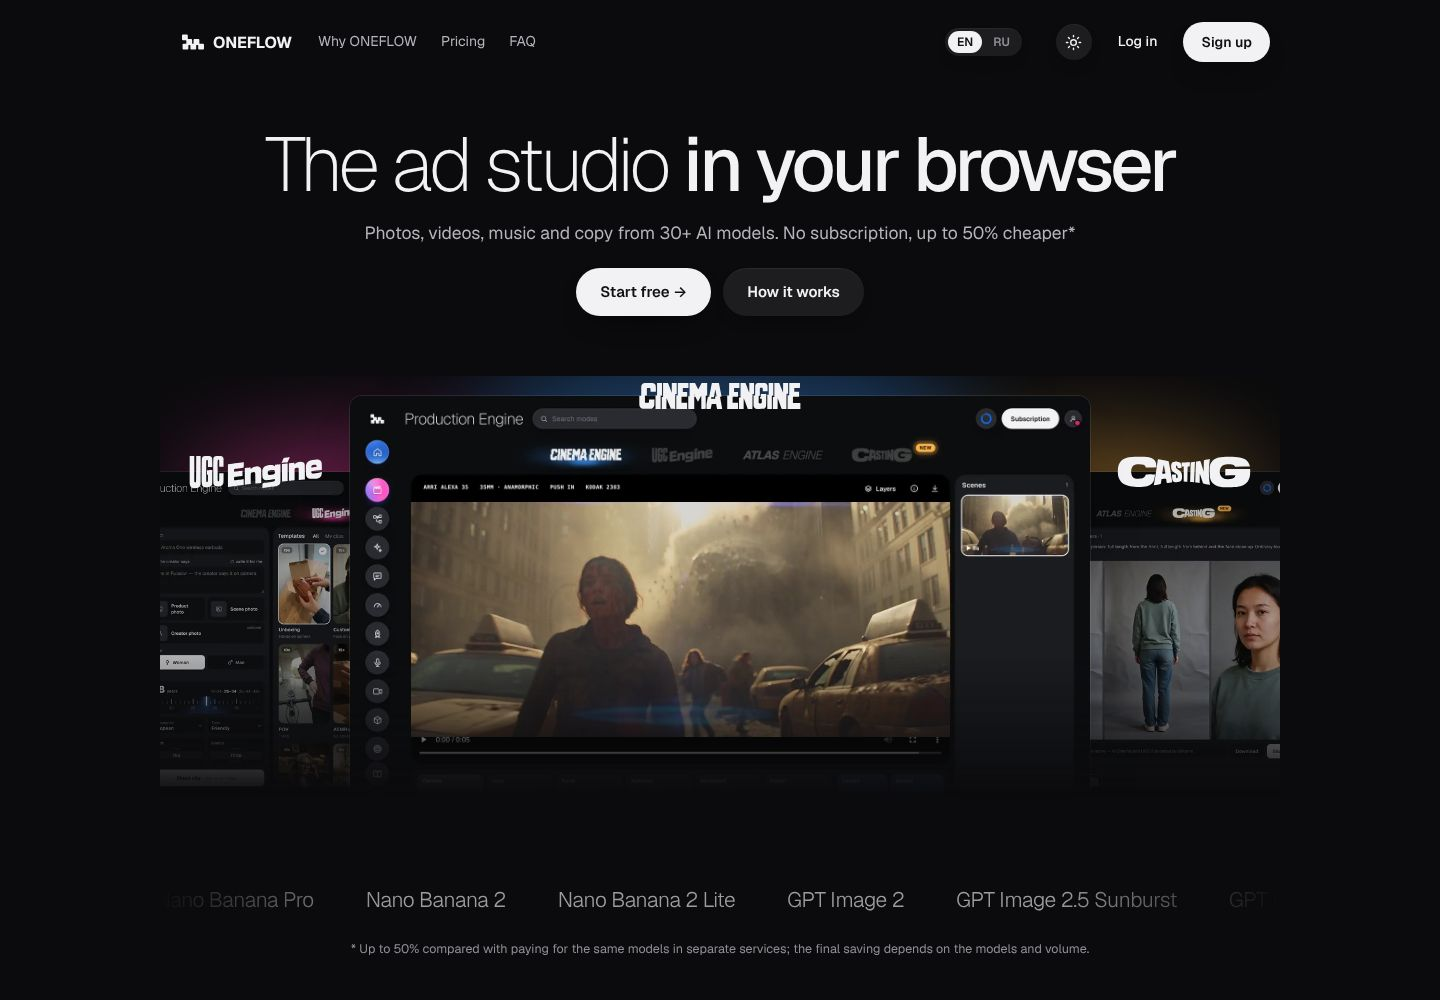
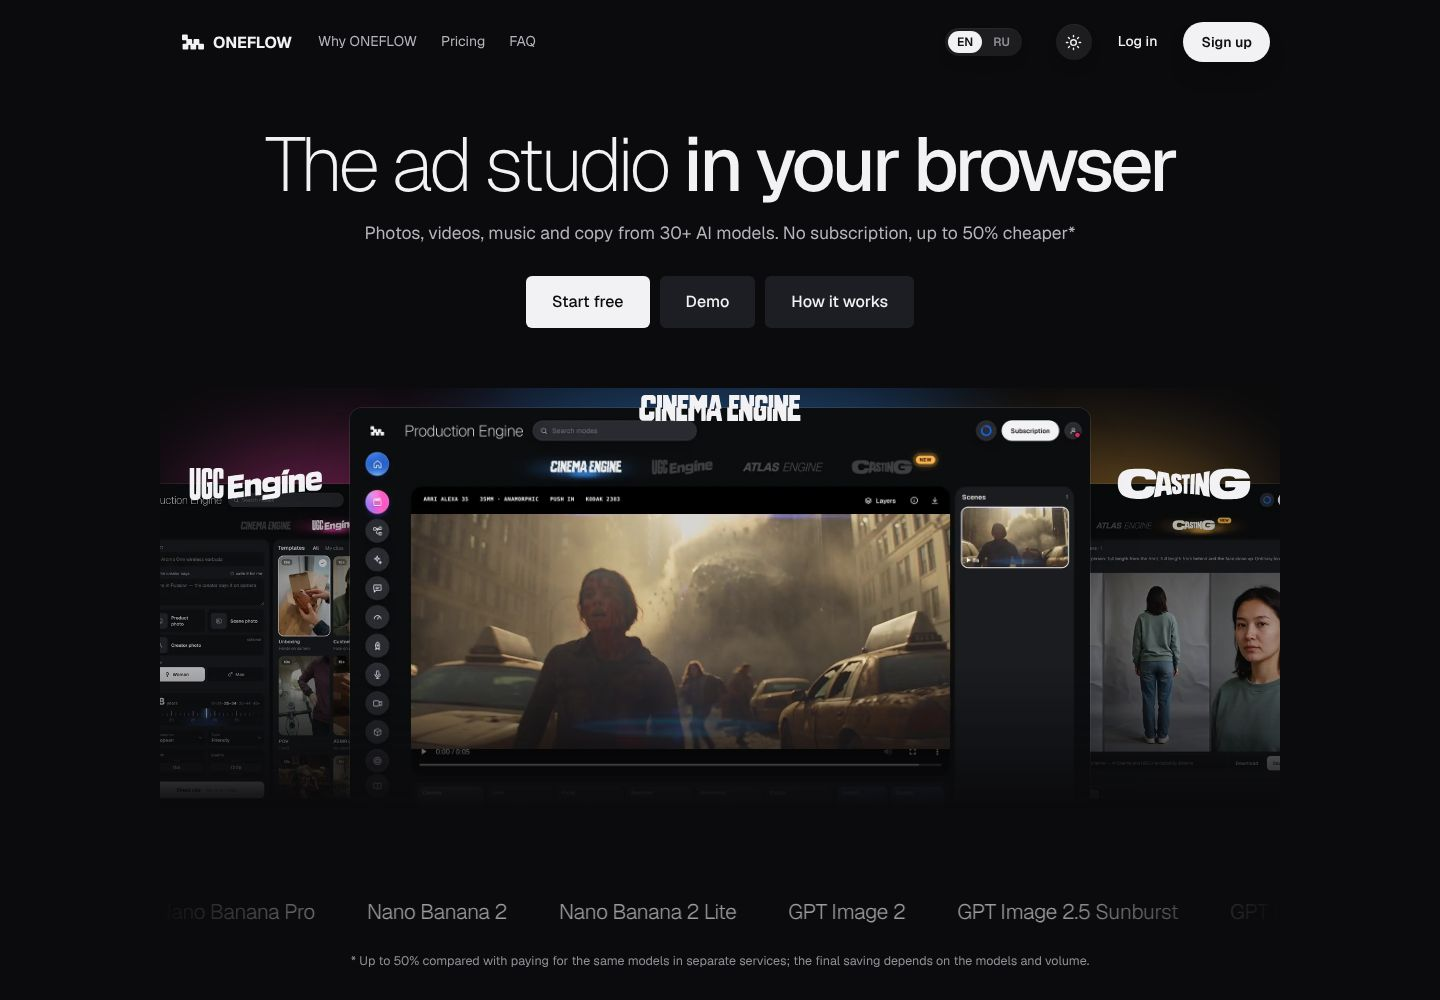
Hero draft: a demo button beside the two, plain rectangular buttons
Claude-Session: https://claude.ai/code/session_018a2KjtpEKLUTJU5P3jAt1D

diff --git a/landing/hero_draft/hero_ru.html b/landing/hero_draft/hero_ru.html
@@ -1,1 +1,1 @@
-<section class="hero hq hq35"><div class="wrap"><h1 aria-label="Рекламная студия в вашем браузере">Рекламная студия<br><b>в вашем браузере</b></h1><p class="sub">Фото, видео, музыка и тексты на 30+ нейросетях. Без подписки, до 50% дешевле*</p><div class="acts"><a class="btn p" data-app="register" href="/app?auth=register">Начать бесплатно →</a><a class="btn g" href="#engines">Как это работает</a></div><div class="hq-desk" aria-hidden="true"><div class="hq-w w-l"><span class="hq-blob" style="--h:326"></span><span class="hq-logo" style="--lg:url(/pe/ugc-engine.svg);--ar:1198/303;--lh:34px"></span><div class="hq-win"><img src="/pe/ru/ugc.webp" alt=""></div></div><div class="hq-w w-r"><span class="hq-blob" style="--h:36"></span><span class="hq-logo" style="--lg:url(/pe/casting-engine.svg);--ar:640/160;--lh:34px"></span><div class="hq-win"><img src="/pe/ru/casting.webp" alt=""></div></div><div class="hq-w w-c"><span class="hq-blob" style="--h:212"></span><span class="hq-logo" style="--lg:url(/pe/cinema-engine.svg);--ar:1359/233;--lh:28px"></span><div class="hq-win"><img src="/pe/ru/cine.webp" alt=""><video autoplay muted loop playsinline preload="auto" poster="/pe/scene.jpg" tabindex="-1"><source src="/pe/scene.mp4" type="video/mp4"><source src="/pe/scene.webm" type="video/webm"></video></div></div></div></div></section>
+<section class="hero hq hq35"><div class="wrap"><h1 aria-label="Рекламная студия в вашем браузере">Рекламная студия<br><b>в вашем браузере</b></h1><p class="sub">Фото, видео, музыка и тексты на 30+ нейросетях. Без подписки, до 50% дешевле*</p><div class="acts"><a class="btn p" data-app="register" href="/app?auth=register">Начать бесплатно</a><a class="btn g" href="/app?demo=1">Демо</a><a class="btn g" href="#engines">Как это работает</a></div><div class="hq-desk" aria-hidden="true"><div class="hq-w w-l"><span class="hq-blob" style="--h:326"></span><span class="hq-logo" style="--lg:url(/pe/ugc-engine.svg);--ar:1198/303;--lh:34px"></span><div class="hq-win"><img src="/pe/ru/ugc.webp" alt=""></div></div><div class="hq-w w-r"><span class="hq-blob" style="--h:36"></span><span class="hq-logo" style="--lg:url(/pe/casting-engine.svg);--ar:640/160;--lh:34px"></span><div class="hq-win"><img src="/pe/ru/casting.webp" alt=""></div></div><div class="hq-w w-c"><span class="hq-blob" style="--h:212"></span><span class="hq-logo" style="--lg:url(/pe/cinema-engine.svg);--ar:1359/233;--lh:28px"></span><div class="hq-win"><img src="/pe/ru/cine.webp" alt=""><video autoplay muted loop playsinline preload="auto" poster="/pe/scene.jpg" tabindex="-1"><source src="/pe/scene.mp4" type="video/mp4"><source src="/pe/scene.webm" type="video/webm"></video></div></div></div></div></section>

diff --git a/landing/hero_draft/hero_en.html b/landing/hero_draft/hero_en.html
@@ -1,1 +1,1 @@
-<section class="hero hq hq35"><div class="wrap"><h1 aria-label="The ad studio in your browser">The ad studio <b>in your browser</b></h1><p class="sub">Photos, videos, music and copy from 30+ AI models. No subscription, up to 50% cheaper*</p><div class="acts"><a class="btn p" data-app="register" href="/app?auth=register">Start free →</a><a class="btn g" href="#engines">How it works</a></div><div class="hq-desk" aria-hidden="true"><div class="hq-w w-l"><span class="hq-blob" style="--h:326"></span><span class="hq-logo" style="--lg:url(/pe/ugc-engine.svg);--ar:1198/303;--lh:34px"></span><div class="hq-win"><img src="/pe/en/ugc.webp" alt=""></div></div><div class="hq-w w-r"><span class="hq-blob" style="--h:36"></span><span class="hq-logo" style="--lg:url(/pe/casting-engine.svg);--ar:640/160;--lh:34px"></span><div class="hq-win"><img src="/pe/en/casting.webp" alt=""></div></div><div class="hq-w w-c"><span class="hq-blob" style="--h:212"></span><span class="hq-logo" style="--lg:url(/pe/cinema-engine.svg);--ar:1359/233;--lh:28px"></span><div class="hq-win"><img src="/pe/en/cine.webp" alt=""><video autoplay muted loop playsinline preload="auto" poster="/pe/scene.jpg" tabindex="-1"><source src="/pe/scene.mp4" type="video/mp4"><source src="/pe/scene.webm" type="video/webm"></video></div></div></div></div></section>
+<section class="hero hq hq35"><div class="wrap"><h1 aria-label="The ad studio in your browser">The ad studio <b>in your browser</b></h1><p class="sub">Photos, videos, music and copy from 30+ AI models. No subscription, up to 50% cheaper*</p><div class="acts"><a class="btn p" data-app="register" href="/app?auth=register">Start free</a><a class="btn g" href="/app?demo=1">Demo</a><a class="btn g" href="#engines">How it works</a></div><div class="hq-desk" aria-hidden="true"><div class="hq-w w-l"><span class="hq-blob" style="--h:326"></span><span class="hq-logo" style="--lg:url(/pe/ugc-engine.svg);--ar:1198/303;--lh:34px"></span><div class="hq-win"><img src="/pe/en/ugc.webp" alt=""></div></div><div class="hq-w w-r"><span class="hq-blob" style="--h:36"></span><span class="hq-logo" style="--lg:url(/pe/casting-engine.svg);--ar:640/160;--lh:34px"></span><div class="hq-win"><img src="/pe/en/casting.webp" alt=""></div></div><div class="hq-w w-c"><span class="hq-blob" style="--h:212"></span><span class="hq-logo" style="--lg:url(/pe/cinema-engine.svg);--ar:1359/233;--lh:28px"></span><div class="hq-win"><img src="/pe/en/cine.webp" alt=""><video autoplay muted loop playsinline preload="auto" poster="/pe/scene.jpg" tabindex="-1"><source src="/pe/scene.mp4" type="video/mp4"><source src="/pe/scene.webm" type="video/webm"></video></div></div></div></div></section>

diff --git a/landing/hero_draft/hero.css b/landing/hero_draft/hero.css
@@ -46,3 +46,10 @@ html[lang] .hero.hq35 h1 { font-size: clamp(40px, 5.3vw, 76px); line-height: 1.0
 .hero.hq35 .hq-desk { height: 420px; margin-top: 60px; }
 .hero.hq35 .w-l .hq-logo { left: 30%; }
 .hero.hq35 .w-r .hq-logo { left: 70%; }
+/* three plain buttons (the owner, 2026-11-20): «Демо» beside the two, small corner radii, no arrow, no glow */
+html[lang] .hero.hq35 .acts { gap: 10px; margin-top: 30px; }
+html[lang] .hero.hq35 .acts .btn { height: 52px; padding: 0 26px; border-radius: 6px; font: 500 16px/1 var(--d); letter-spacing: 0; box-shadow: none; transform: none; transition: background .15s; }
+html[lang] .hero.hq35 .acts .btn.p { background: #f2f2f4; color: #0c0c10; }
+html[lang] .hero.hq35 .acts .btn.p:hover { background: #fff; }
+html[lang] .hero.hq35 .acts .btn.g { background: #1d1e23; color: #f2f2f4; backdrop-filter: none; -webkit-backdrop-filter: none; }
+html[lang] .hero.hq35 .acts .btn.g:hover { background: #282a31; }

diff --git a/landing/hero_draft/README.md b/landing/hero_draft/README.md
@@ -18,6 +18,9 @@
 Секция заменяет нынешние `<section class="hero">` и ряд баннеров новинок `#news`. Картинки окон и логотипы
 берутся из `/pe/` (они уже лежат на сайте для блока режимов).
 
+Кнопок три (20.11.2026): «Начать бесплатно», «Демо» (`/app?demo=1`) и «Как это работает» — прямоугольные,
+с радиусом 6 px, без стрелки, теней и свечения.
+
 ## Не решено
 
 - Телефон, светлая тема и нынешнее фоновое видео в этом макете не сделаны.
